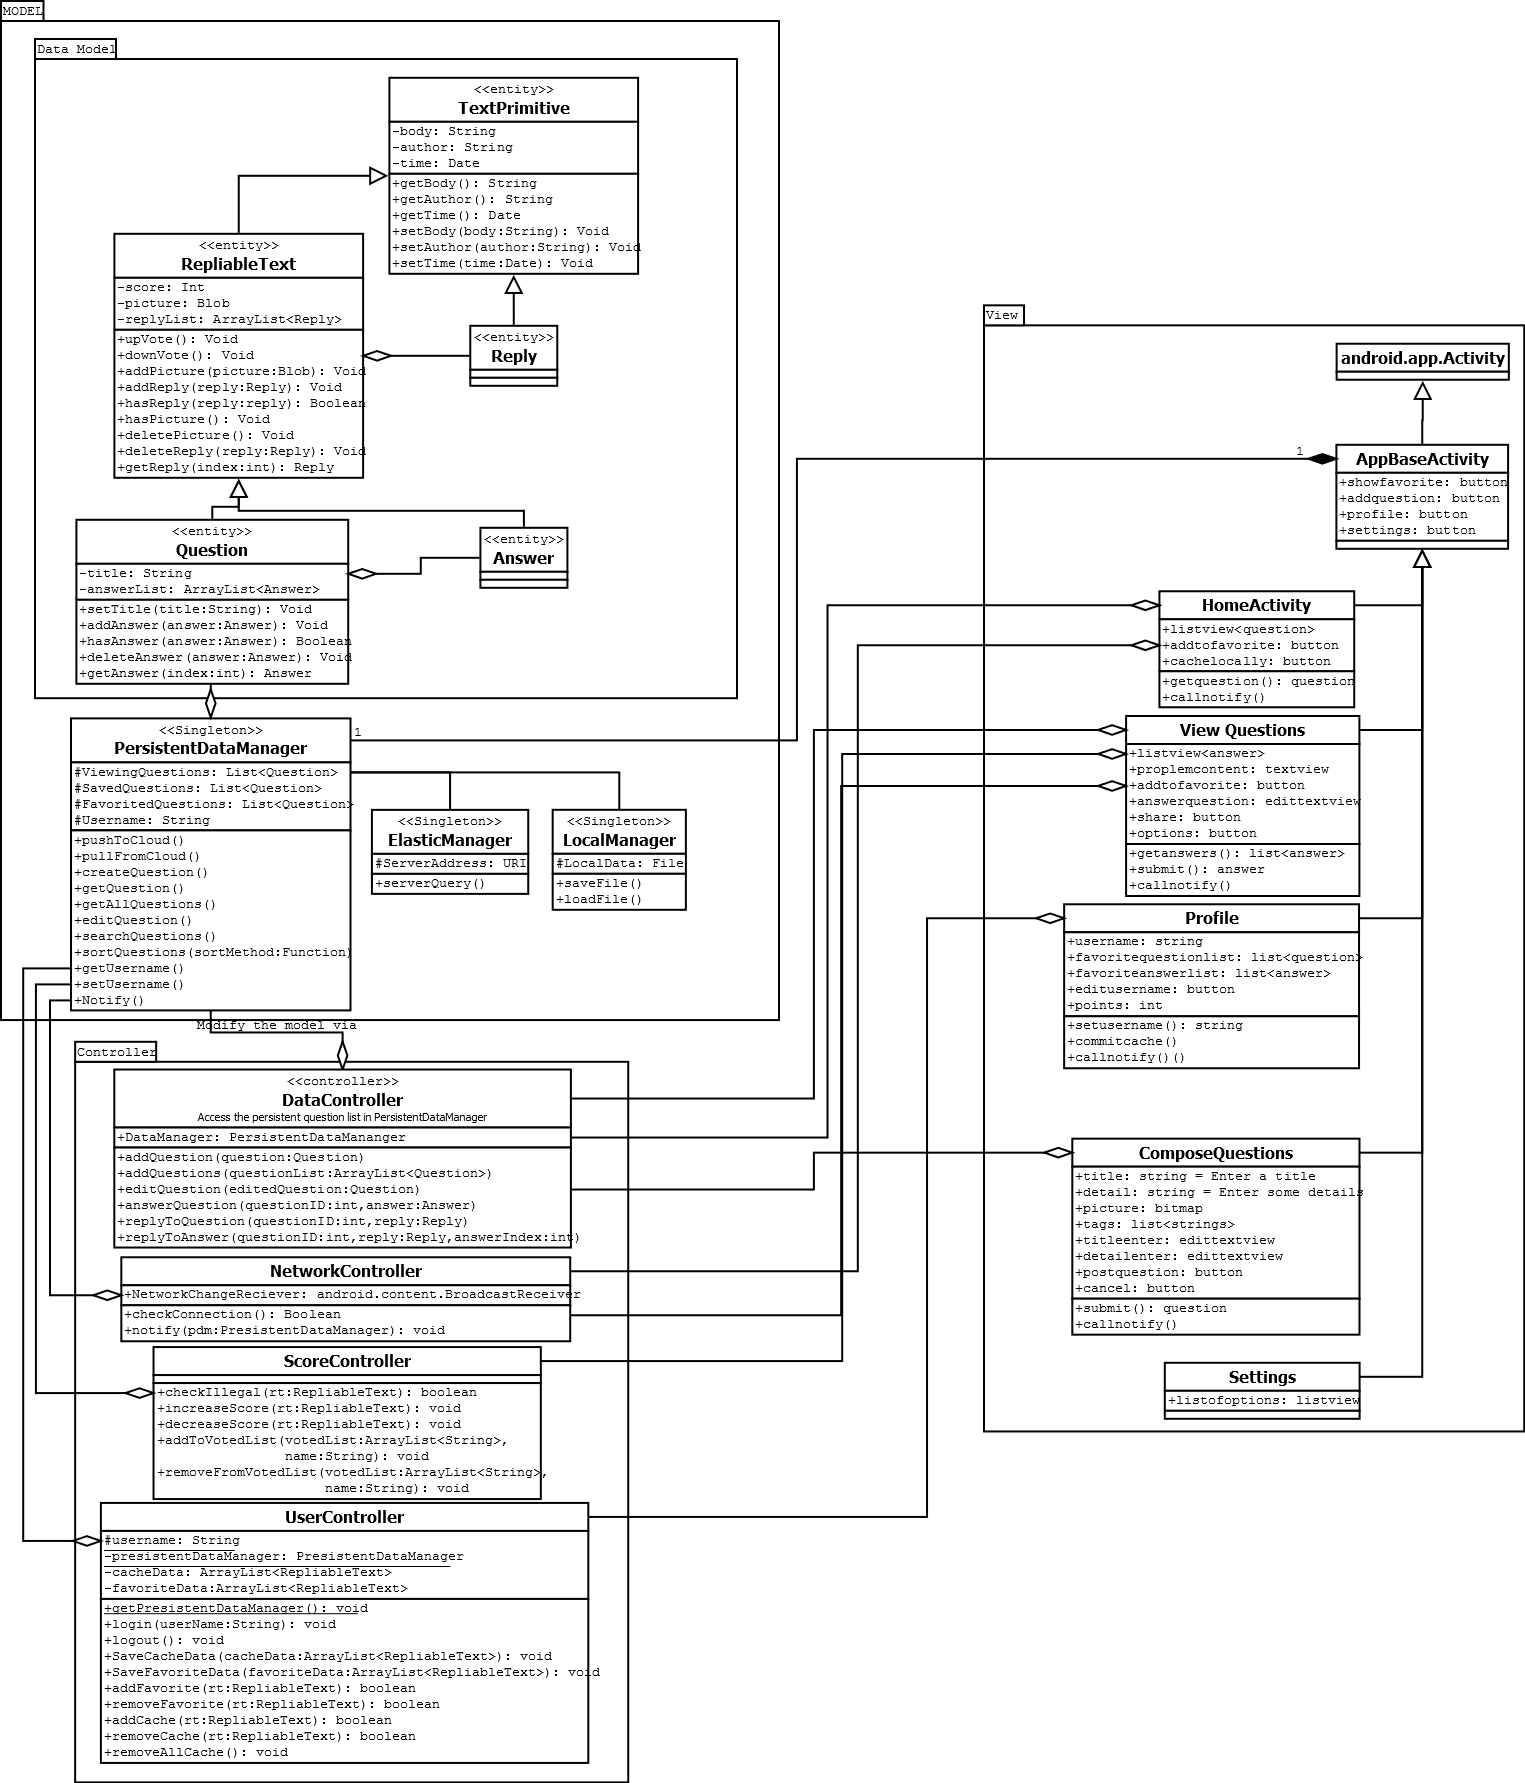
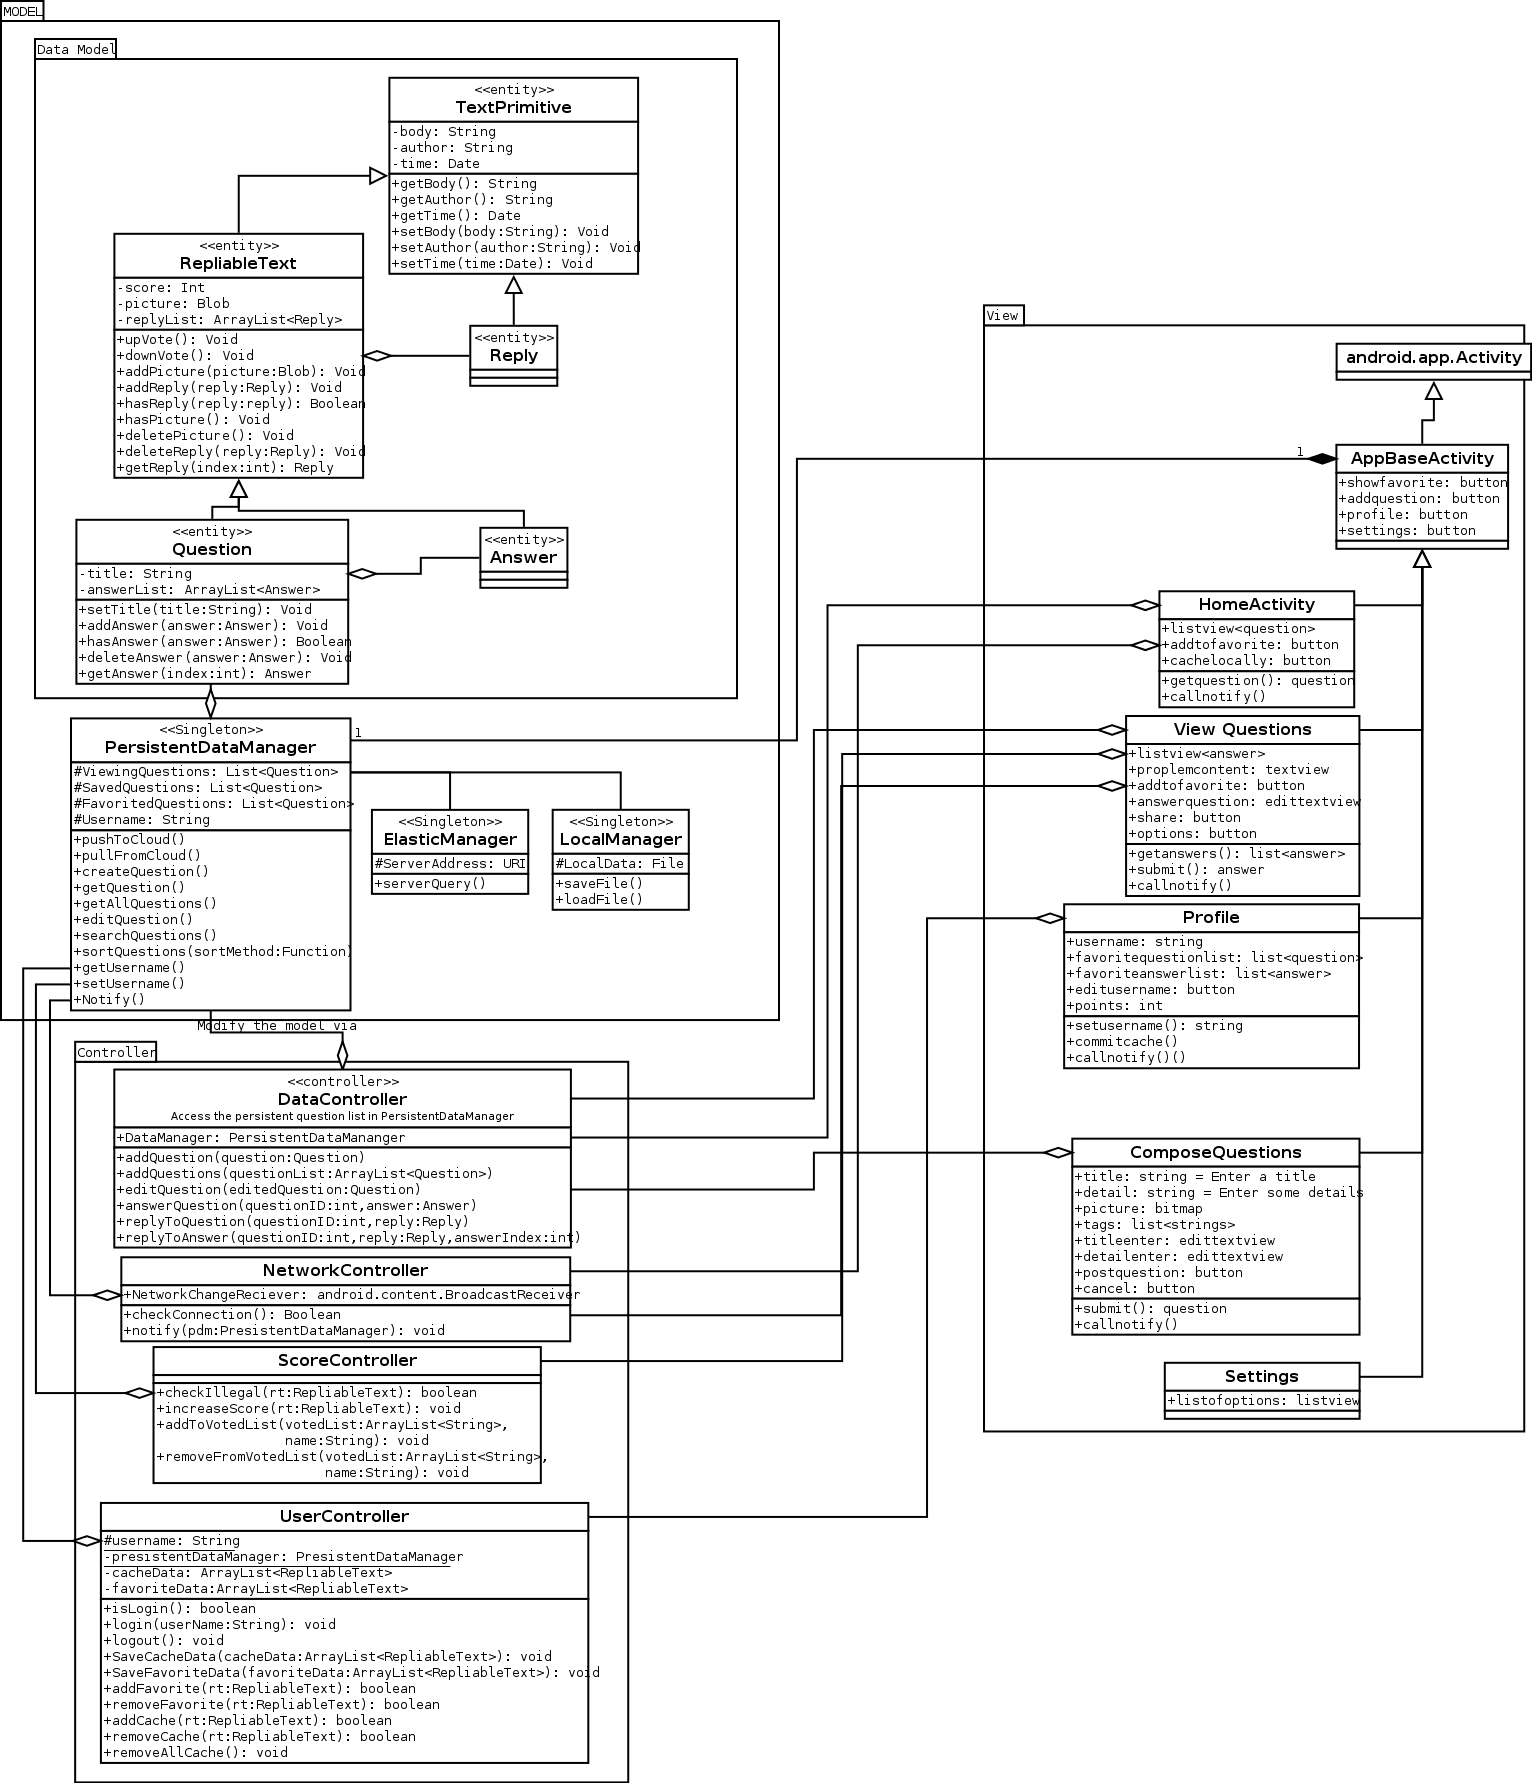
implement methods in score controller and network controller, modify UML

diff --git a/LortAnswersTestTest/src/com/github/cmput301f14t11/teamlort/test/ScoreControllerTest.java b/LortAnswersTestTest/src/com/github/cmput301f14t11/teamlort/test/ScoreControllerTest.java
@@ -44,9 +44,7 @@ public class ScoreControllerTest extends TestCase {
 		assertTrue("should throw a null pointer exception", thrown);
 		sc.removeFromVotedList(rt,"Bob");
 		assertTrue("size of voter lsit should be 0", rt.getVoterSet().size() == 0);
-		assertTrue("Ann should not in the list",!rt.getVoterSet().contains("Bob"));
-		
-		
+		assertTrue("Ann should not in the list",!rt.getVoterSet().contains("Bob"));	
 		
 	}
 	
@@ -58,16 +56,6 @@ public class ScoreControllerTest extends TestCase {
 		assertTrue("socre of rt should be 1", rt.getScore() == 1);
 		sc.increaseScore(rt);
 		assertTrue("score of rt should be 2", rt.getScore() == 2);
-	}
-	
-	public void testDecreasScore(){
-		RepliableText rt = new RepliableText();
-		assertTrue("score of rt should be 0", rt.getScore() == 0);
-		ScoreController sc = new ScoreController();
-		sc.decreaseScore(rt);
-		assertTrue("socre of rt should be -1", rt.getScore() == -1);
-		sc.decreaseScore(rt);
-		assertTrue("score of rt should be -2", rt.getScore() == -2);
 	}
 	
 	public void testCheckIllegal(){

diff --git a/Project/src/com/github/cmput301f14t11/teamlort/ScoreController.java b/Project/src/com/github/cmput301f14t11/teamlort/ScoreController.java
@@ -1,10 +1,24 @@
 package com.github.cmput301f14t11.teamlort;
 
+import com.github.cmput301f14t11.teamlort.Model.PersistentDataManager;
+
 public class ScoreController {
+	
+	private static PersistentDataManager pdm = PersistentDataManager.getInstance();
+	private static String username = pdm.getUsername();
 
 	public boolean checkIllegal(RepliableText rt) {
-		
-		return false;
+		if(username.isEmpty()){
+			return false;
+		}
+		else{
+			if(rt.getVoterSet().contains(username) || rt.getAuthor().equals(username)){
+				return false;
+			}
+			else{
+				return true;
+			}
+		}
 	}
 
 	public void addToVotedList(RepliableText rt, String string) {
@@ -16,14 +30,7 @@ public class ScoreController {
 	public void increaseScore(RepliableText rt) {
 		
 		if(this.checkIllegal(rt)){
-			//rt.upVote(username);
-		}
-		
-	}
-
-	public void decreaseScore(RepliableText rt) {
-		if(this.checkIllegal(rt)){
-			//rt.downVote(username);
+			rt.upVote(username);
 		}
 		
 	}

diff --git a/Project/src/com/github/cmput301f14t11/teamlort/NetworkController.java b/Project/src/com/github/cmput301f14t11/teamlort/NetworkController.java
@@ -1,5 +1,28 @@
 package com.github.cmput301f14t11.teamlort;
 
+import com.github.cmput301f14t11.teamlort.Model.PersistentDataManager;
+
+import android.content.Context;
+import android.net.ConnectivityManager;
+import android.net.NetworkInfo;
+
 public class NetworkController {
+	
+	private static PersistentDataManager pdm = PersistentDataManager.getInstance();
+	//code is referenced from http://stackoverflow.com/
+	//questions/4238921/detect-whether-there-is-an-internet
+	//-connection-available-on-android
+	
+	public boolean checkConnection(Context context){
+		ConnectivityManager connectivityManager = 
+				(ConnectivityManager)context.getSystemService(Context.CONNECTIVITY_SERVICE);
+		NetworkInfo activeNetworkInfo = connectivityManager.getActiveNetworkInfo();
+		return activeNetworkInfo != null && activeNetworkInfo.isConnected();
+		
+	}
+	
+	public void notifyDataManager(){
+		pdm.notify();
+	}
 
 }

diff --git a/LortAnswersTestTest/src/com/github/cmput301f14t11/teamlort/test/UserControllerTest.java b/LortAnswersTestTest/src/com/github/cmput301f14t11/teamlort/test/UserControllerTest.java
@@ -1,8 +1,6 @@
 package com.github.cmput301f14t11.teamlort.test;
 
-import com.github.cmput301f14t11.teamlort.DataController;
 import com.github.cmput301f14t11.teamlort.Question;
-import com.github.cmput301f14t11.teamlort.RepliableText;
 import com.github.cmput301f14t11.teamlort.UserController;
 import com.github.cmput301f14t11.teamlort.Model.PersistentDataManager;
 
